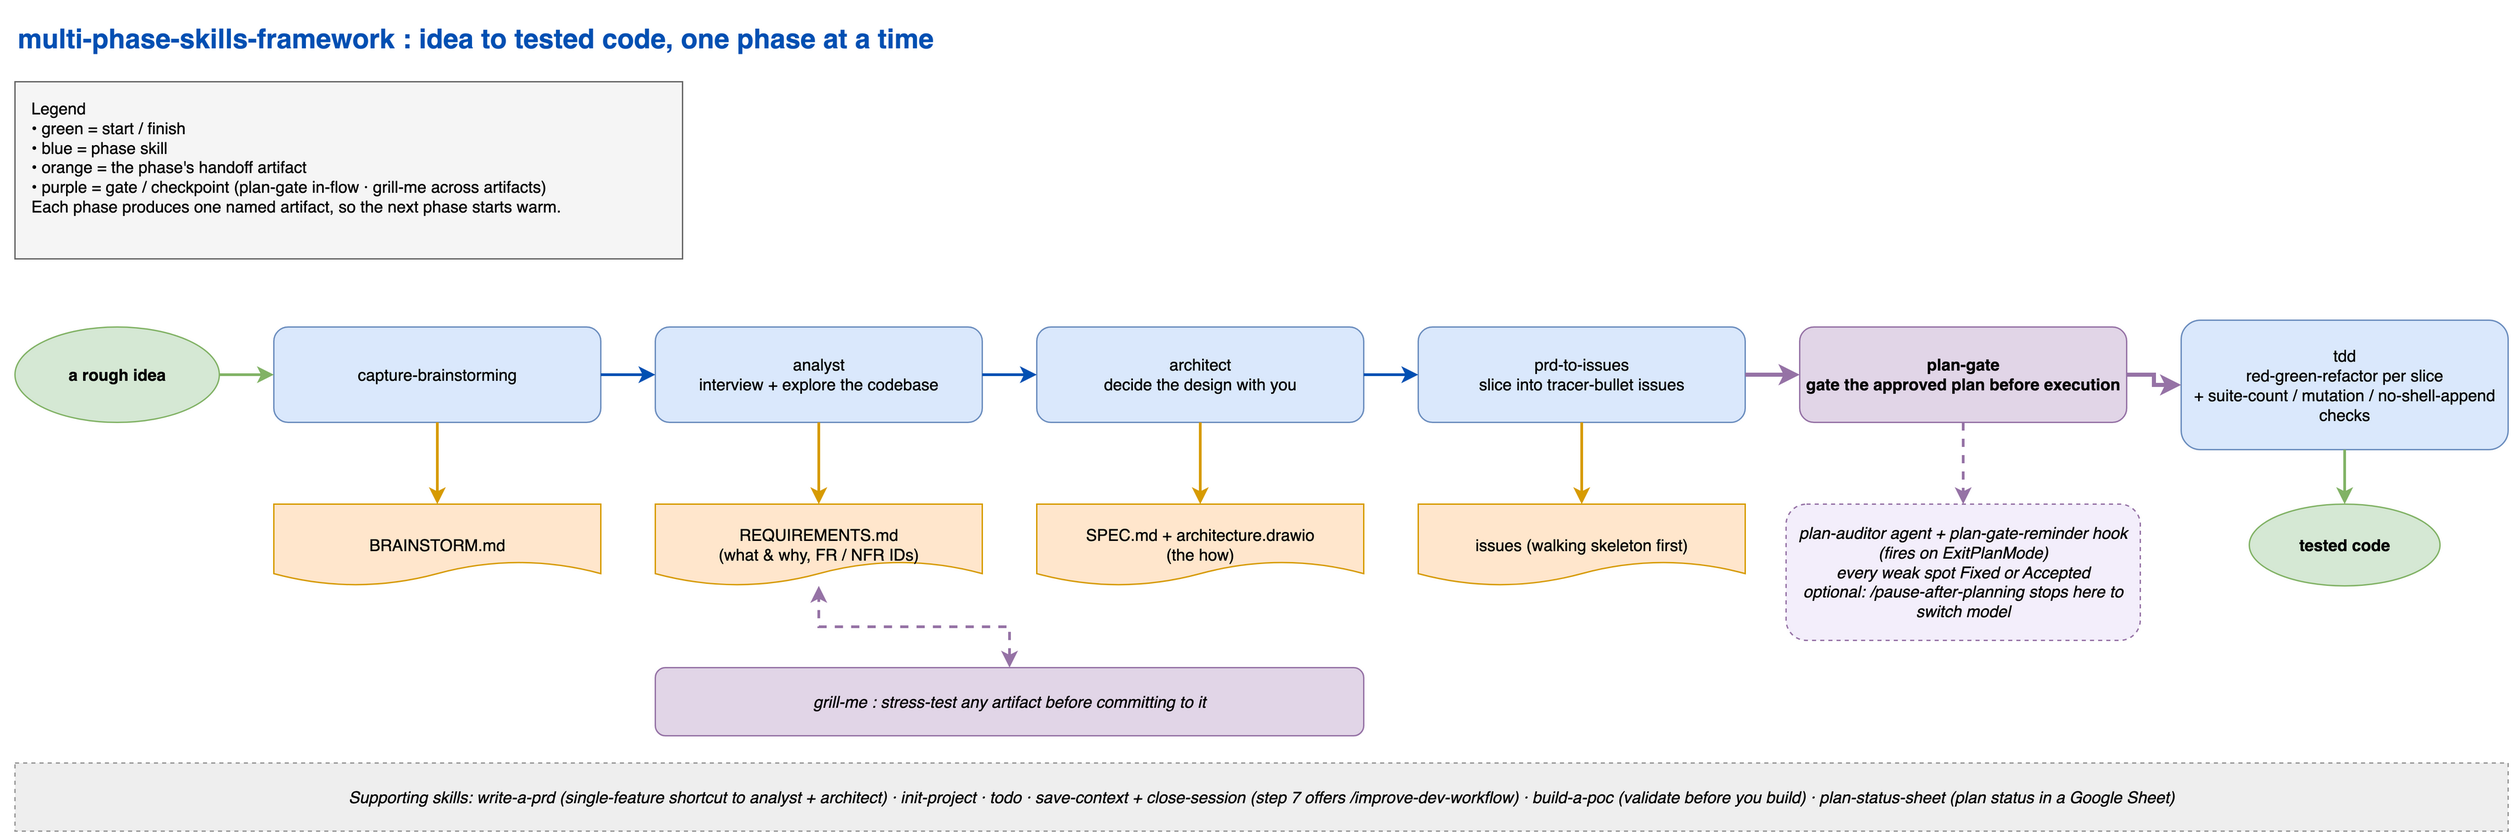
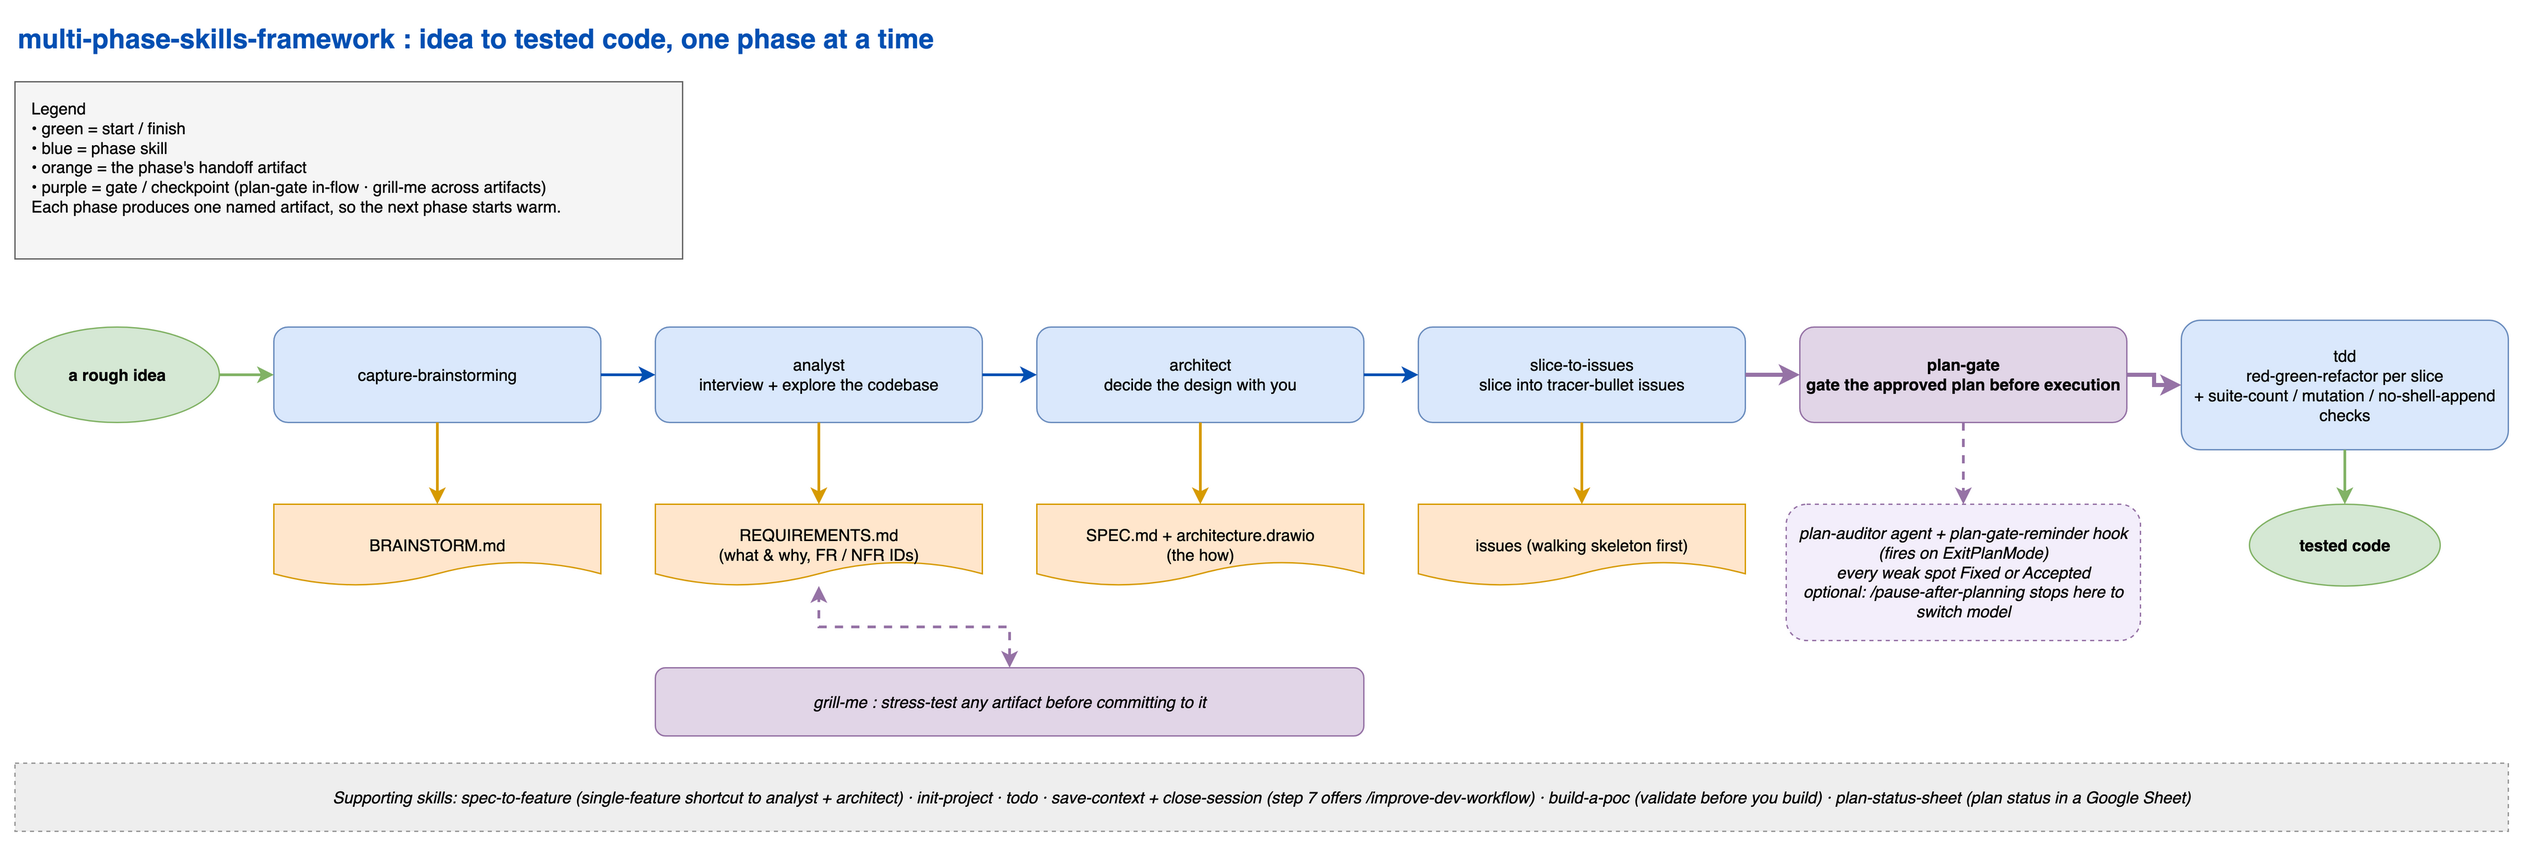
Rename write-a-prd to spec-to-feature and prd-to-issues to slice-to-issues (#25)
The new names say what each skill does: spec-to-feature interviews and
writes one feature spec, filed as one issue; slice-to-issues cuts a spec
or plan into small vertical-slice issues.

Every pointer, the README, the authoring guide and both flow diagrams use
the new names. NOTICE, LICENSE and the README credit name each skill's
upstream original (to-issues and write-a-prd from Matt Pocock's set), and
NOTICE now lists spec-to-feature as derived.

diff --git a/README.md b/README.md
@@ -12,13 +12,13 @@ The skills are designed to run in this order, but each is usable on its own.
 
 1. **capture-brainstorming** — turn an exploratory thinking session into a `BRAINSTORM.md` handoff log. Runs as a full capture (mines the conversation plus past session transcripts) or as a cheap checkpoint you can repeat during a long session. Surfaces deferred action items and hands them to `todo`.
 2. **analyst** — interview the user and the codebase, then write `REQUIREMENTS.md` (the problem space: WHAT and WHY, not HOW). Warm-starts from `BRAINSTORM.md` when one exists.
-3. **architect** — read `REQUIREMENTS.md`, decide the design with the user, write `SPEC.md` plus an `architecture.drawio`, then slice the work via `prd-to-issues`.
-4. **prd-to-issues** — break a plan or spec into independently-grabbable, tracer-bullet vertical slices as issues on the project tracker. First slice is always a walking skeleton.
+3. **architect** — read `REQUIREMENTS.md`, decide the design with the user, write `SPEC.md` plus an `architecture.drawio`, then slice the work via `slice-to-issues`.
+4. **slice-to-issues** — break a plan or spec into independently-grabbable, tracer-bullet vertical slices as issues on the project tracker. First slice is always a walking skeleton.
 5. **tdd** — implement each issue with the red-green-refactor loop, one vertical slice at a time. Hands the branch off for review and a PR per your team's process.
 
 Supporting skills used across the chain:
 
-- **write-a-prd** — lightweight single-feature alternative to the `analyst` then `architect` pass: one interview, one PRD, filed as one issue. Based on the Matt Pocock skills set.
+- **spec-to-feature** — lightweight single-feature alternative to the `analyst` then `architect` pass: one interview, one PRD, filed as one issue. Based on the Matt Pocock skills set.
 - **grill-me** — adversarial interview to stress-test a plan, design, or doc before committing to it. Based on the grill-me skill by Matt Pocock.
 - **plan-gate** — pre-execution checkpoint on an approved plan (for example one you just approved in Claude Code's plan mode): surface every weak spot and drive each one to fixed or explicitly accepted with the user, one at a time, before any code is written. Spawns the bundled `plan-auditor` agent for the read-only audit; an optional hook fires the gate automatically the moment you leave plan mode. Use `grill-me` to stress-test an early idea; `plan-gate` is for a plan that is already approved.
 - **`/pause-after-planning`**: optional command for anyone who plans and builds on different models. Run it during a planning session and it arms a stop, so Claude finishes planning and the gate, then hands off and waits for you to switch the model instead of rolling straight into implementation. See [Model routing](#model-routing).
@@ -112,7 +112,7 @@ Claude Code loads every `.md` file in `~/.claude/rules/` at the start of each se
 These skills reference a few things this framework does not include. None are required to use the core chain; they are points where the framework hands off to your own tooling.
 
 - **Review and pull-request / checkpoint step after `tdd`.** The framework deliberately does not prescribe a review or PR tool. When tests are green, `tdd` tells you to hand the branch off for review and open a PR per your team's process. Plug in whatever you use (a code-review skill, your CI, a manual review).
-- **OpenSpec (optional, `architect` Path A).** `architect` defaults to slicing straight into issues via `prd-to-issues` (Path B). It can instead scaffold an OpenSpec change if your repo already uses OpenSpec, which is a separately installed tool (`npm install -g @fission-ai/openspec`). Skip it unless your team has standardized on it.
+- **OpenSpec (optional, `architect` Path A).** `architect` defaults to slicing straight into issues via `slice-to-issues` (Path B). It can instead scaffold an OpenSpec change if your repo already uses OpenSpec, which is a separately installed tool (`npm install -g @fission-ai/openspec`). Skip it unless your team has standardized on it.
 - **draw.io tooling (optional, `architect` deliverable 2).** `architect` asks for an `architecture.drawio` next to `SPEC.md` and leaves how you produce it up to you. The `draw-diagram` skill in the [drawio-diagram-skill](https://github.com/eranw2000/drawio-diagram-skill) pack covers that part: a visual grammar to author against, plus a validator and renderer so the diagram gets looked at before it is called done. Any other draw.io workflow does the job equally well.
 - **Commands and skills from the sibling packs (optional).** A few skills mention a command that ships elsewhere: `/instruct` and `/new-session` in [claude-commands](https://github.com/eranw2000/claude-commands), `/split-claude-md` in [claude-maintenance-skills](https://github.com/eranw2000/claude-maintenance-skills), and `/pr-checkpoint` and `/release` in [claude-release-workflow](https://github.com/eranw2000/claude-release-workflow). Each mention is a pointer, not a requirement; without the other pack the step is skipped.
 - **`/improve-dev-workflow` (optional, `save-context` step 7).** At the end of a session, `save-context` (and so `close-session`) checks whether something reached you or a reviewer that a skill, hook, agent or rule should have caught. When it did, it asks once whether to improve the development workflow now, and runs `/improve-dev-workflow` from [claude-maintenance-skills](https://github.com/eranw2000/claude-maintenance-skills) on a yes. Without that pack, the answer is filed as an open action item instead.
@@ -130,7 +130,7 @@ These skills reference a few things this framework does not include. None are re
 
 ## Credits
 
-Several skills here are based on Matt Pocock's open-source skills set (https://github.com/mattpocock/skills): `tdd`, `prd-to-issues` (his `to-issues`), `write-a-prd`, and `grill-me`. To install his full upstream set and its per-repo config, run `/setup-matt-pocock-skills` from that repo. `analyst` and `architect` are original to this framework, they add the explicit requirements and design phases his set does not include. The `plan-gate` system (skill, `plan-auditor` agent, and reminder hook) is also original.
+Several skills here are based on Matt Pocock's open-source skills set (https://github.com/mattpocock/skills): `tdd`, `slice-to-issues` (his `to-issues`), `spec-to-feature` (his `write-a-prd`), and `grill-me`. To install his full upstream set and its per-repo config, run `/setup-matt-pocock-skills` from that repo. `analyst` and `architect` are original to this framework, they add the explicit requirements and design phases his set does not include. The `plan-gate` system (skill, `plan-auditor` agent, and reminder hook) is also original.
 
 ## License
 

diff --git a/architect/SKILL.md b/architect/SKILL.md
@@ -1,7 +1,7 @@
 ---
 model: inherit
 name: architect
-description: Act as a Solution Architect. Read REQUIREMENTS.md, engage the user on design decisions, write SPEC.md, then slice into tracer-bullet issues on the project tracker via /prd-to-issues (the default), or scaffold an OpenSpec change via /opsx:propose only when the user explicitly asks for the OpenSpec route, so the developer can implement task by task. Use after the analyst skill (or after REQUIREMENTS.md exists by any other means) when the project needs an explicit design phase before slicing. Output captures the HOW (modules, interfaces, NFR strategy, data flow). Not for problem-space gathering (use analyst).
+description: Act as a Solution Architect. Read REQUIREMENTS.md, engage the user on design decisions, write SPEC.md, then slice into tracer-bullet issues on the project tracker via /slice-to-issues (the default), or scaffold an OpenSpec change via /opsx:propose only when the user explicitly asks for the OpenSpec route, so the developer can implement task by task. Use after the analyst skill (or after REQUIREMENTS.md exists by any other means) when the project needs an explicit design phase before slicing. Output captures the HOW (modules, interfaces, NFR strategy, data flow). Not for problem-space gathering (use analyst).
 ---
 
 # Solution Architect
@@ -13,7 +13,7 @@ You are a Solution Architect. The Analyst has produced `REQUIREMENTS.md`. Your j
 1. `SPEC.md` at the project root, a short architecture narrative (1 to 3 pages).
 2. `architecture.drawio` next to SPEC.md. Use draw.io for the architecture diagram; ASCII art or Mermaid is a weaker substitute. Omit only for pure-CLI / pure-library work with no components to diagram (and note "N/A" in the checklist). Tooling to author, validate, and render one ships separately as the `draw-diagram` skill in the drawio-diagram-skill pack. It is optional, and nothing here depends on it.
 3. Implementation artifacts (default is Path B), via ONE of:
-   - **Path B (default):** A sliced issue list on the project tracker via `/prd-to-issues`.
+   - **Path B (default):** A sliced issue list on the project tracker via `/slice-to-issues`.
    - **Path A (only when the user explicitly asks for the OpenSpec / opsx:propose route):** An OpenSpec change at `openspec/changes/<change-name>/` containing `proposal.md`, `design.md`, `tasks.md`, and spec deltas under `specs/`, scaffolded via `/opsx:propose`.
 
 ## Core disciplines (top 3)
@@ -100,11 +100,11 @@ SPEC.md is the contract the developer builds against, so it is not sliced until 
 2. Ask the user to read SPEC.md in full and confirm it reflects their intent.
 3. Wait for explicit confirmation that they read it. "Go ahead" or silence without reading does not count. If they raise changes, revise SPEC.md and re-confirm.
 
-Do not invoke /prd-to-issues (Path B) or scaffold an OpenSpec change (Path A) until that confirmation is in hand.
+Do not invoke /slice-to-issues (Path B) or scaffold an OpenSpec change (Path A) until that confirmation is in hand.
 
 ### 5. Hand off to implementation artifacts
 
-Default to `/prd-to-issues` (Path B); scaffold an OpenSpec change (Path A) only when the user asks for that route.
+Default to `/slice-to-issues` (Path B); scaffold an OpenSpec change (Path A) only when the user asks for that route.
 
 **Read `~/.claude/skills/architect/reference/5-hand-off.md` now, in full, and follow it. It is this step's full text; the line above is only a summary and is not enough to act on.**
 
@@ -139,6 +139,6 @@ Tell the user:
 - Do not start design while REQUIREMENTS.md has unresolved Open Questions or unfilled sections. Stop and ask the user for the missing answers first.
 - Do not slice (Path B) or scaffold (Path A) until the user has confirmed they read SPEC.md.
 - Do not decide alone on non-trivial design choices. Surface options + tradeoffs to the user first.
-- Default to Path B (`/prd-to-issues`). Do not choose Path A (OpenSpec) unless the user explicitly asks for the OpenSpec / `opsx:propose` route.
+- Default to Path B (`/slice-to-issues`). Do not choose Path A (OpenSpec) unless the user explicitly asks for the OpenSpec / `opsx:propose` route.
 - Do not skip OpenSpec validation on Path A. A broken change blocks `/opsx:apply` downstream.
 - Do not install OpenSpec into a project just to satisfy this skill. Default to Path B.

diff --git a/analyst/SKILL.md b/analyst/SKILL.md
@@ -1,7 +1,7 @@
 ---
 model: inherit
 name: analyst
-description: Act as a Requirements Analyst. Interview the user, explore the codebase, and produce REQUIREMENTS.md capturing the problem space (WHAT and WHY, not HOW) for handoff to the architect skill. Warm-starts from a BRAINSTORM.md (written by /capture-brainstorming) when one exists, interviewing only the open topics. Use when starting a new project or initiative, when scope is unclear, or when the user says "gather requirements", "act as analyst", "let's spec this", or asks to produce a REQUIREMENTS.md. For a small single-feature spec, prefer write-a-prd; use grill-me to stress-test a plan that already exists instead.
+description: Act as a Requirements Analyst. Interview the user, explore the codebase, and produce REQUIREMENTS.md capturing the problem space (WHAT and WHY, not HOW) for handoff to the architect skill. Warm-starts from a BRAINSTORM.md (written by /capture-brainstorming) when one exists, interviewing only the open topics. Use when starting a new project or initiative, when scope is unclear, or when the user says "gather requirements", "act as analyst", "let's spec this", or asks to produce a REQUIREMENTS.md. For a small single-feature spec, prefer spec-to-feature; use grill-me to stress-test a plan that already exists instead.
 ---
 
 # Requirements Analyst
@@ -18,7 +18,7 @@ Three things this skill cares about most. Everything below is amplification of t
 
 2. **Mirror back** (see Stance). After every non-trivial user answer, paraphrase what you heard and ask whether you got it right before moving on. Misheard requirements compound silently through every downstream phase (architect, TDD, review, verification).
 
-3. **Testable functional requirements + measurable non-functional requirements** (see template sections 4 and 5). Each FR formatted "The system MUST/SHOULD/MAY <behavior>, so that <reason>" with its own ID. Each NFR has a number or an explicit acceptance test, not adjectives (how to write one: `reference/nfr.md`). These IDs are what `prd-to-issues` maps issues to, and what a later review anchors against.
+3. **Testable functional requirements + measurable non-functional requirements** (see template sections 4 and 5). Each FR formatted "The system MUST/SHOULD/MAY <behavior>, so that <reason>" with its own ID. Each NFR has a number or an explicit acceptance test, not adjectives (how to write one: `reference/nfr.md`). These IDs are what `slice-to-issues` maps issues to, and what a later review anchors against.
 
 Failure modes these three prevent:
 

diff --git a/spec-to-feature/SKILL.md b/spec-to-feature/SKILL.md
@@ -1,11 +1,11 @@
 ---
 model: inherit
-name: write-a-prd
-description: Create a PRD for a single, well-bounded feature through a user interview, codebase exploration, and a deep-module design pass, then file it as one issue ready to implement. Use this whenever the user wants to write a PRD, spec out a feature, plan a new feature, or turn a feature idea into an actionable ticket, even if they do not say "PRD" by name. This skill produces only a PRD; it never creates a REQUIREMENTS.md. Defer to /analyst (then /architect) when the work spans multiple features, the scope is still unclear, the project needs numbered FR/NFR IDs for sign-off or compliance, or the need itself is unvalidated. To break an existing plan or spec into many issues, use /prd-to-issues instead.
+name: spec-to-feature
+description: Create a PRD for a single, well-bounded feature through a user interview, codebase exploration, and a deep-module design pass, then file it as one issue ready to implement. Use this whenever the user wants to write a PRD, spec out a feature, plan a new feature, or turn a feature idea into an actionable ticket, even if they do not say "PRD" by name. This skill produces only a PRD; it never creates a REQUIREMENTS.md. Defer to /analyst (then /architect) when the work spans multiple features, the scope is still unclear, the project needs numbered FR/NFR IDs for sign-off or compliance, or the need itself is unvalidated. To break an existing plan or spec into many issues, use /slice-to-issues instead.
 argument-hint: "[optional one-line feature description]"
 ---
 
-# Write a PRD
+# Spec to feature
 
 <!-- Based on the Matt Pocock skills set (https://github.com/mattpocock). -->
 
@@ -164,4 +164,4 @@ Before declaring the PRD done, verify:
 When the PRD is filed, tell the user:
 
 - Where it landed (issue URL or file path).
-- The suggested next step: slice it into tracer-bullet vertical-slice issues with `/prd-to-issues`, or implement it directly with `/tdd` if it is small enough to be a single slice.
+- The suggested next step: slice it into tracer-bullet vertical-slice issues with `/slice-to-issues`, or implement it directly with `/tdd` if it is small enough to be a single slice.

diff --git a/docs/AUTHORING-GUIDE.md b/docs/AUTHORING-GUIDE.md
@@ -76,9 +76,9 @@ A chain of phase skills, each producing one named handoff artifact so the next p
 1. **capture-brainstorming** produces `BRAINSTORM.md` (full capture, or cheap repeatable checkpoints). Hands deferred action items to the todo skill.
 2. **analyst** produces `REQUIREMENTS.md`: the problem space (WHAT and WHY), testable FRs and measurable NFRs, each with an ID.
 3. **architect** produces `SPEC.md` plus an architecture diagram, gating on a complete REQUIREMENTS.md first and a user-confirmed SPEC.md before slicing.
-4. **prd-to-issues** breaks the spec into tracer-bullet vertical-slice issues; first slice is a walking skeleton.
+4. **slice-to-issues** breaks the spec into tracer-bullet vertical-slice issues; first slice is a walking skeleton.
 5. **tdd** implements each issue with red-green-refactor, one slice at a time.
 
-Supporting skills: **grill-me** (adversarial stress-test), **init-project** (seed a project doc), **todo** (persistent per-project TODO with a cross-project index), **write-a-prd** (lightweight single-feature alternative to analyst-then-architect), **save-context** and **close-session** (end-of-session persistence). A start-of-session briefing ships as a `/new-session` command in the companion commands pack, not as a skill here.
+Supporting skills: **grill-me** (adversarial stress-test), **init-project** (seed a project doc), **todo** (persistent per-project TODO with a cross-project index), **spec-to-feature** (lightweight single-feature alternative to analyst-then-architect), **save-context** and **close-session** (end-of-session persistence). A start-of-session briefing ships as a `/new-session` command in the companion commands pack, not as a skill here.
 
 Conventions worth reusing: stable IDs (FR-N, NFR-X-N, D-N) thread requirements through design, issues, tests, and review; vertical tracer-bullet slicing with a walking skeleton first; the brainstorm output is a handoff artifact, not memory; an open topic (a decision) is kept separate from an action item (a task handed to the todo skill), never double-tracked.

diff --git a/architect/reference/5-hand-off.md b/architect/reference/5-hand-off.md
@@ -1,8 +1,8 @@
-Two paths. **Default to Path B (`/prd-to-issues`).** Use Path A (OpenSpec) ONLY when the user explicitly asks for the OpenSpec / `opsx:propose` route. If the repo already standardizes on OpenSpec, you may surface it as an option, but do not switch to it without the user opting in.
+Two paths. **Default to Path B (`/slice-to-issues`).** Use Path A (OpenSpec) ONLY when the user explicitly asks for the OpenSpec / `opsx:propose` route. If the repo already standardizes on OpenSpec, you may surface it as an option, but do not switch to it without the user opting in.
 
 **Path B (default): direct slicing.** Slice SPEC.md into tracer-bullet vertical slices as issues on the project tracker. Right for nearly every project: lightweight, no new dependency, and the slices become assignable, closeable, PR-linkable work items. The durable design rationale already lives in the versioned `SPEC.md` and `architecture.drawio`, so the issues only need to carry the sliced work.
 
-1. Invoke `/prd-to-issues` with SPEC.md as input.
+1. Invoke `/slice-to-issues` with SPEC.md as input.
 2. Confirm the tracer-bullet vertical slices match the module inventory in SPEC.md.
 3. Hand off to `/tdd` against the top-priority issue.
 

diff --git a/grill-me/SKILL.md b/grill-me/SKILL.md
@@ -16,7 +16,7 @@ Interview the user relentlessly about every aspect of a plan, design, or documen
 - If the user passed a path as an argument (e.g., `/grill-me REQUIREMENTS.md`, `/grill-me docs/proposal.md`, `/grill-me openspec/changes/add-auth/design.md`), read that file first. That file is the subject of the grilling.
 - If the argument is a URL, fetch it and use the content as the subject.
 - If no argument is given, the subject is whatever plan or design is in the current conversation.
-- The subject can be at any stage: a rough idea or BRAINSTORM.md before you commit to a path (write-a-prd or analyst), or a written REQUIREMENTS.md / SPEC.md before the next phase.
+- The subject can be at any stage: a rough idea or BRAINSTORM.md before you commit to a path (spec-to-feature or analyst), or a written REQUIREMENTS.md / SPEC.md before the next phase.
 
 State clearly at the start which subject you are grilling.
 

diff --git a/slice-to-issues/SKILL.md b/slice-to-issues/SKILL.md
@@ -1,10 +1,10 @@
 ---
 model: inherit
-name: prd-to-issues
+name: slice-to-issues
 description: Break a plan, spec, or PRD into independently-grabbable issues on the project issue tracker using tracer-bullet vertical slices. Use when user wants to convert a plan into issues, create implementation tickets, or break down work into issues.
 ---
 
-# To Issues
+# Slice to issues
 
 <!-- Based on the Matt Pocock skills set (https://github.com/mattpocock). -->
 
